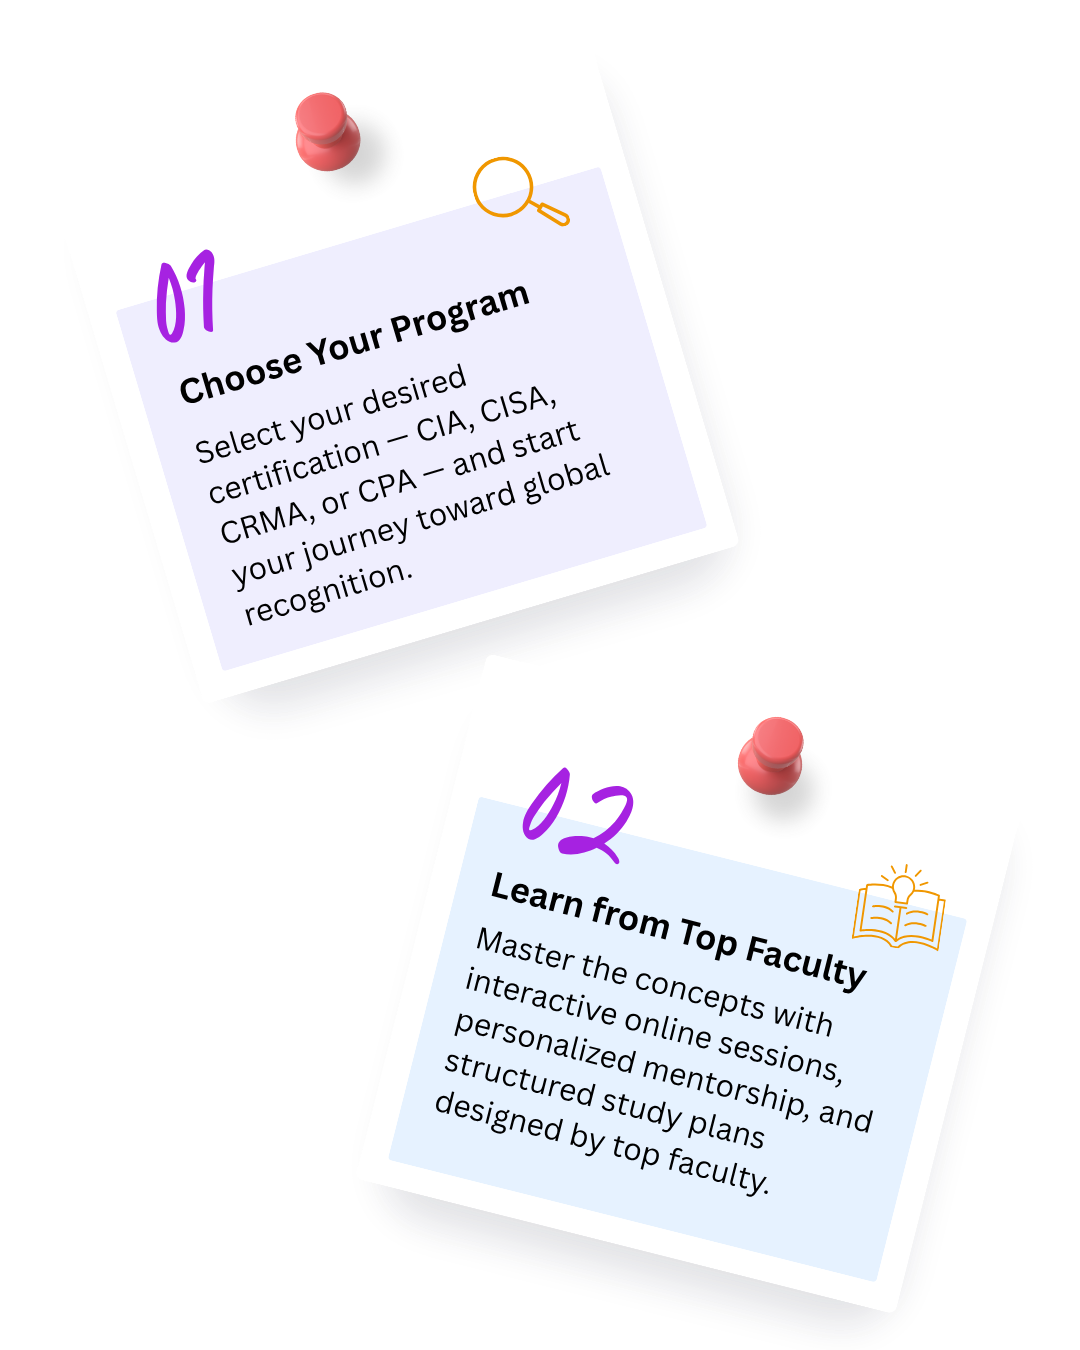
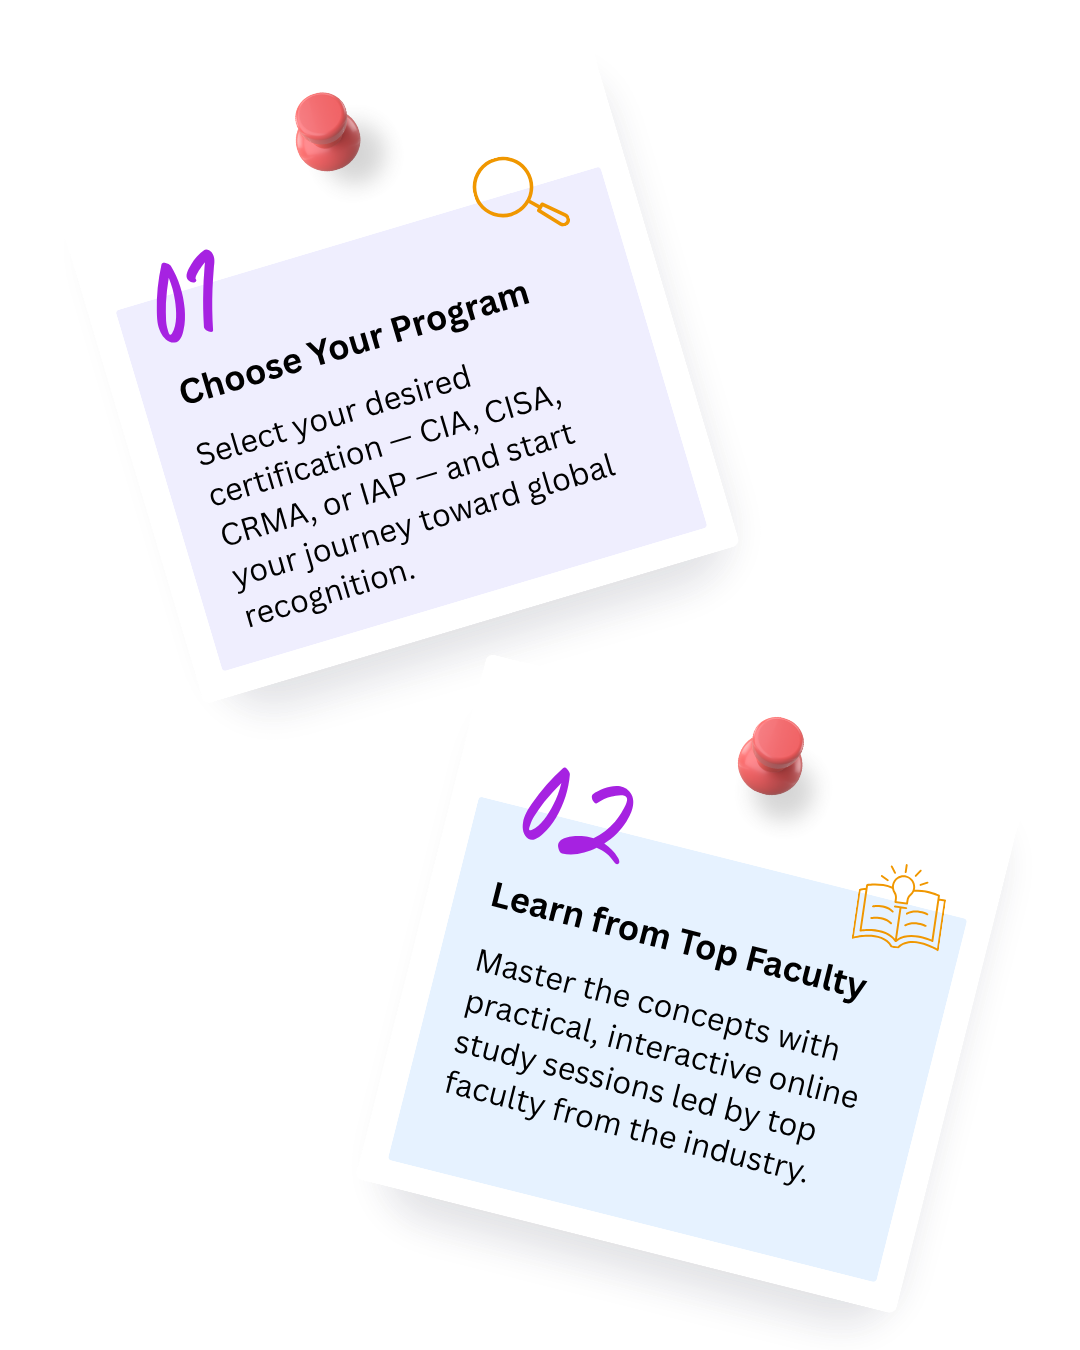
Home Page Update 2.0

Changed region(s): [[0.3972, 0.6533, 0.7944, 0.9022], [0.1833, 0.28, 0.5806, 0.4667]]

diff --git a/src/components/Home/Home.jsx b/src/components/Home/Home.jsx
@@ -52,7 +52,7 @@ const courseFaqs = [
     {
         question: "Who is Arpit Garg?",
         answer:
-            "Arpit Garg is widely recognized as the best faculty for CIA, CISA, CRMA, and IAP training in India. As a top-qualified audit, assurance, and risk management expert, he is renowned for his insightful teaching style, industry expertise, and high student success rates. Associated with Global Professional Certifications and recognized by IIA India, Arpit Garg is a trusted mentor for aspiring audit professionals nationwide."
+            "Arpit Garg is the Founding Partner of RiskMan Consulting and a certified CIA, CISA, CRMA, and IAP professional. He is widely recognized as the best faculty for CIA, CISA, CRMA, and IAP training in India. As a top-qualified audit, assurance, and risk management expert, he is renowned for his insightful teaching style, industry expertise, and high student success rates. Associated with Global Professional Certifications and recognized by IIA India, Arpit Garg is a trusted mentor for aspiring audit professionals nationwide."
     },
     {
         question: "Is GPC an authorized learning partner of IIA India?",
@@ -140,8 +140,8 @@ export default function Home() {
                         <div className="flex items-center gap-3 sm:gap-4">
                             <FontAwesomeIcon icon={faCertificate} className="text-red-600 text-lg sm:text-xl md:text-2xl bg-yellow-200 rounded-lg p-2" />
                             <div className="text-left">
-                                <p className="text-sm sm:text-lg md:text-2xl font-bold text-gray-800">500+</p>
-                                <p className="text-[10px] sm:text-xs md:text-sm text-gray-600">Certifications</p>
+                                <p className="text-sm sm:text-lg md:text-2xl font-bold text-gray-800">250+</p>
+                                <p className="text-[10px] sm:text-xs md:text-sm text-gray-600">CIAs</p>
                             </div>
                         </div>
 
@@ -156,7 +156,6 @@ export default function Home() {
 
                     </div>
                 </div>
-
 
 
                 {/* Company Marquee Section */}
@@ -392,7 +391,7 @@ export default function Home() {
                             {/* Buttons */}
                             <div className="flex flex-wrap justify-center md:justify-start items-center gap-4 md:gap-6 mt-8 px-2 md:px-8">
                                 <a
-                                    href="https://www.youtube.com/@global-professional-cert"
+                                    href="https://youtu.be/XNnXkttYQUY?si=_sHWBCLvDgFtGIZD"
                                     target="_blank"
                                     rel="noopener noreferrer"
                                     className="bg-brand-blue text-white text-sm md:text-base py-2 px-4 md:px-6 rounded-full hover:bg-brand-purple hover:scale-105 transition-all duration-300"
@@ -444,7 +443,7 @@ export default function Home() {
                                 <span className="font-semibold"> IIA India Authorized Learning Partner</span>.
                             </p>
                             <div className="flex justify-center md:justify-start items-center gap-6 mt-2">
-                                <a href="https://www.youtube.com/@global-professional-cert" target="_blank" rel="noopener noreferrer" className="bg-brand-blue text-white text-sm py-2 px-4 rounded-full hover:bg-brand-purple hover:scale-105 transition-all duration-300 inline-block transform origin-top"
+                                <a href="https://youtu.be/CvzJ_SFD45Y?si=Qow7Di56YcGFjXjz" target="_blank" rel="noopener noreferrer" className="bg-brand-blue text-white text-sm md:text-base py-2 px-4 md:px-6 rounded-full hover:bg-brand-purple hover:scale-105 transition-all duration-300"
                                 >
                                     Watch Video
                                 </a>
@@ -536,7 +535,7 @@ export default function Home() {
                     {/* Bottom CTA and Quote Icon */}
                     <div className="flex justify-center md:justify-between lg:justify-between mt-2 md:mt-8 lg:mt-8 items-center">
                         <NavLink to="/success" className="mt-2">
-                            <button className="bg-brand-blue text-white py-3 px-8 rounded-full font-semibold hover:bg-brand-purple hover:scale-105 transition-all duration-300 shadow-lg">
+                            <button className="bg-brand-blue text-white text-sm md:text-base py-2 px-4 md:px-6 rounded-full hover:bg-brand-purple hover:scale-105 transition-all duration-300">
                                 Read More Success Stories
                             </button>
                         </NavLink>
@@ -593,7 +592,7 @@ export default function Home() {
                             {/* Button */}
                             <Link
                                 to="/contact"
-                                className="bg-brand-blue text-sm md:text-md hover:bg-brand-purple text-white px-6 py-3 rounded-full font-semibold shadow-lg transition-all duration-300"
+                                className="bg-brand-blue text-white text-sm md:text-base py-2 px-4 md:px-6 rounded-full hover:bg-brand-purple  transition-all duration-300"
                             >
                                 Contact Us
                             </Link>

diff --git a/src/components/Companies/Companies.jsx b/src/components/Companies/Companies.jsx
@@ -37,6 +37,7 @@ import bse from "../../assets/Companies/BSE.png"
 import wipro from "../../assets/Companies/Wipro.png"
 import zensar from "../../assets/Companies/Zensar.png"
 import luthra from "../../assets/Companies/Luthra-Group.png"
+import riskman from "../../assets/Companies/Riskman.png"
 
 // importing marquee
 import Marquee from "../Marquee/Marquee";
@@ -45,7 +46,7 @@ export default function Companies() {
 
     const companiesOne = [jpMorganChase, atlas, gitlab, kpmg, suzlon, wellsFargo, hpLogo, pwcLogo, eyLogo, luthra]
 
-    const companiesTwo = [deloitteLogo, bdoLogo, comptrollerLogo, vodafoneLogo, deutscheBankLogo, kotakMahindraBankLogo, sbiLifeInsuranceLogo, yesBankLogo, cognizantLogo]
+    const companiesTwo = [deloitteLogo, riskman, bdoLogo, comptrollerLogo, vodafoneLogo, deutscheBankLogo, kotakMahindraBankLogo, sbiLifeInsuranceLogo, yesBankLogo, cognizantLogo]
 
     const companiesThree = [eatonLogo, courseraLogo, allstateLogo, hexawareLogo, sunPharmaseutical, powerGridLogo, bse, wipro, zensar]
 
@@ -57,8 +58,8 @@ export default function Companies() {
                 <div className="flex flex-col gap-2 justify-center items-center p-4 mb-20">
                     <p className="text-2xl md:text-4xl font-bold text-center">Join Thousands of <span className="text-brand-blue font-normal italic">Professionals</span> from <span className="text-brand-blue font-normal italic">Leading Companies</span>
                     </p>
-                    <p className="text-xs md:text-base lg:text-lg font-poppins max-w-4xl text-center text-gray-600 mt-6 ">
-                        Trusted by professionals from top multinational corporations for CIA, CISA, CRMA, and IAP certifications. Advance your career with expert-led, industry-recognized programs.
+                    <p className="text-xs md:text-base lg:text-lg font-poppins text-center text-gray-600 mt-6">
+                        Trusted by professionals from top multinational corporations for CIA, CISA, CRMA, and IAP certifications.
                     </p>
                 </div>
                 <div className="container mx-auto">

diff --git a/src/components/FAQDisplay.jsx b/src/components/FAQDisplay.jsx
@@ -46,7 +46,7 @@ const FAQDisplay = ({ faqs = [], showCount = 5, showMoreLink = "/faq" }) => {
                                         : "0px",
                             }}
                         >
-                            <p className="mt-4">{faq.answer}</p>
+                            <p className="mt-4 text-justify">{faq.answer}</p>
                         </div>
                     </div>
                 ))}

diff --git a/src/components/Footer/Footer.jsx b/src/components/Footer/Footer.jsx
@@ -24,7 +24,7 @@ const Footer = () => {
                             />
                         </Link>
 
-                        <div className="mt-2 pr-8 space-y-4 text-gray-500 text-xs">
+                        <div className="mt-2 px-0 md:pr-12 lg:pr-12 space-y-4 text-gray-500 text-xs text-justify">
                             <p>
                                 Global Professional Certifications empowers auditors, risk managers, and advisors worldwide with industry-accredited courses and expert mentorship.
                                 Join a thriving community and unlock new career heights with globally recognized certifications like CIA, CRMA, IAP, and CISA.